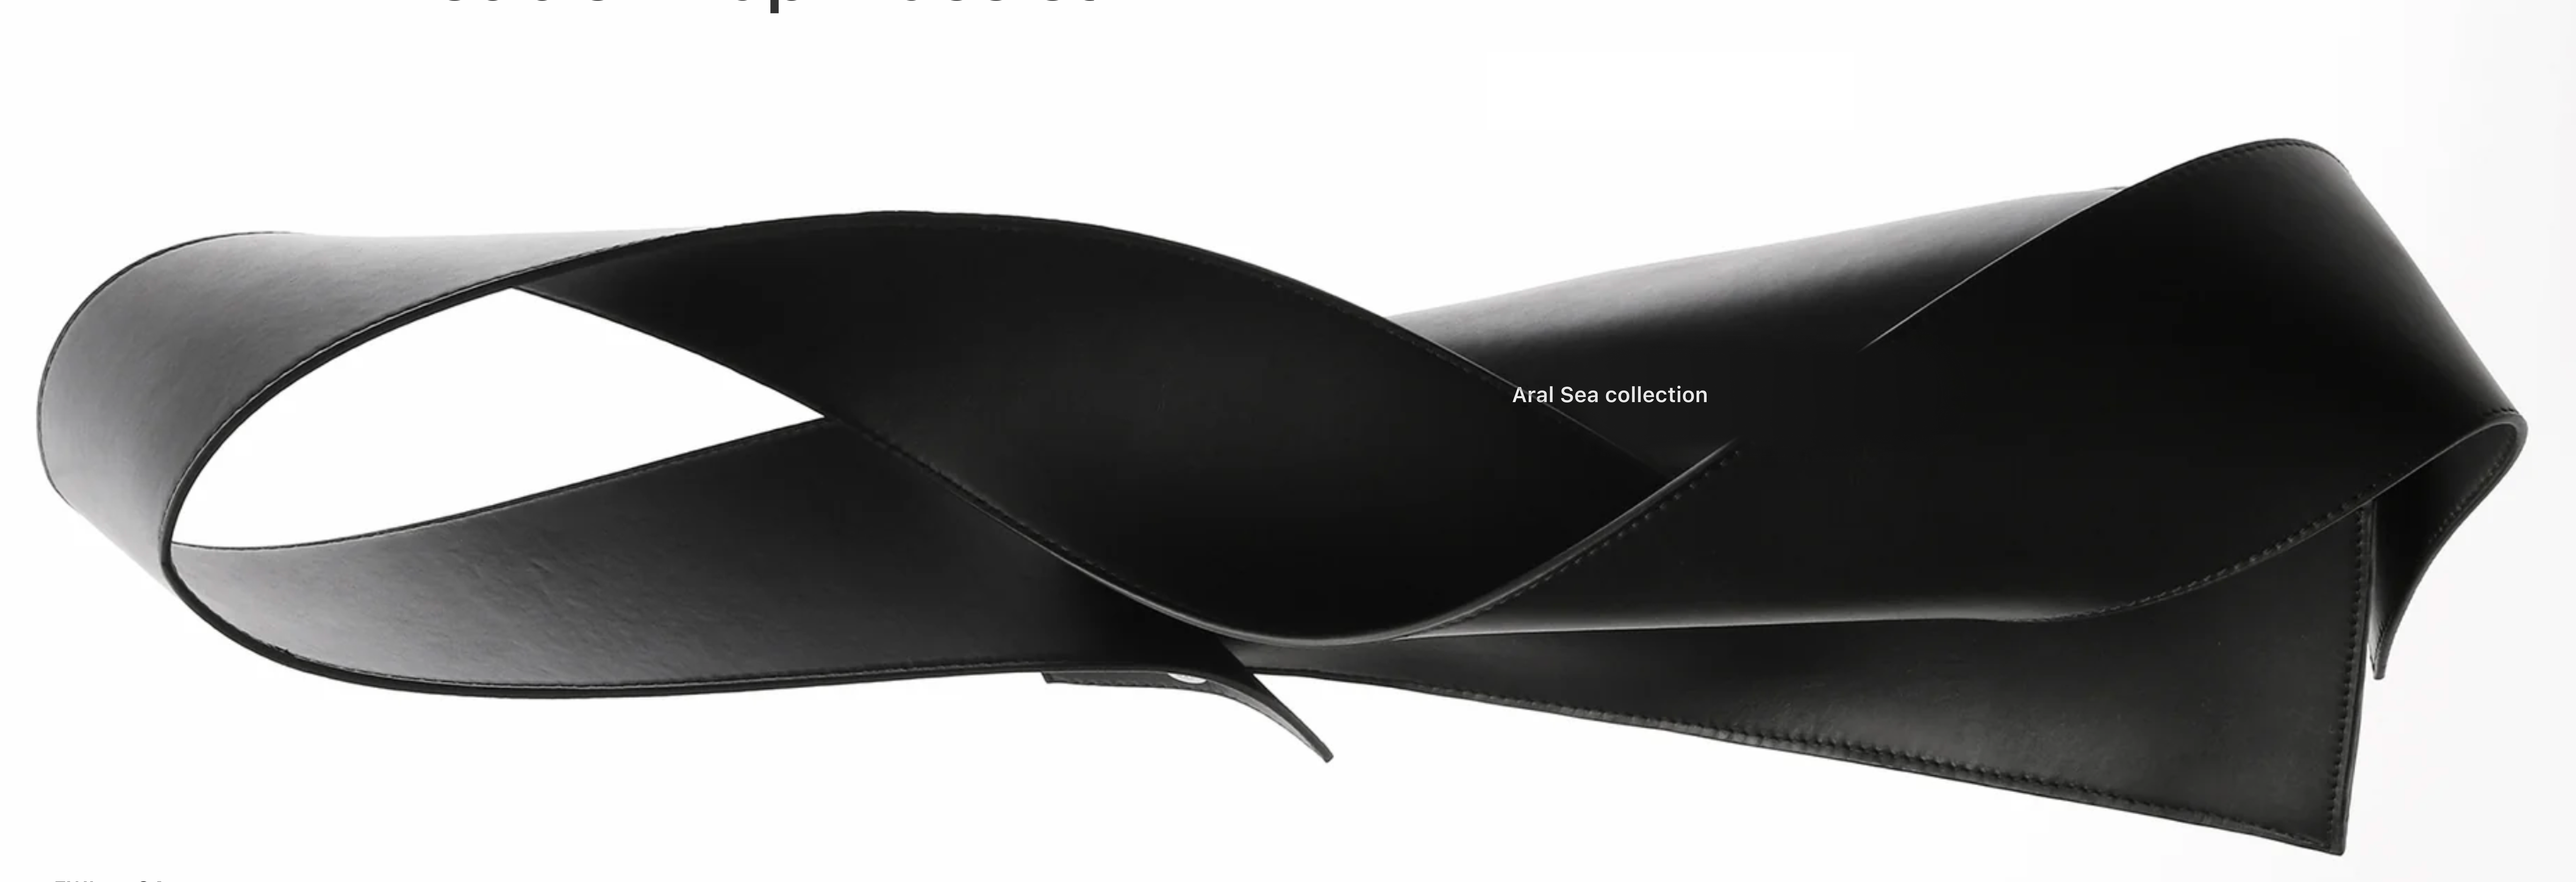
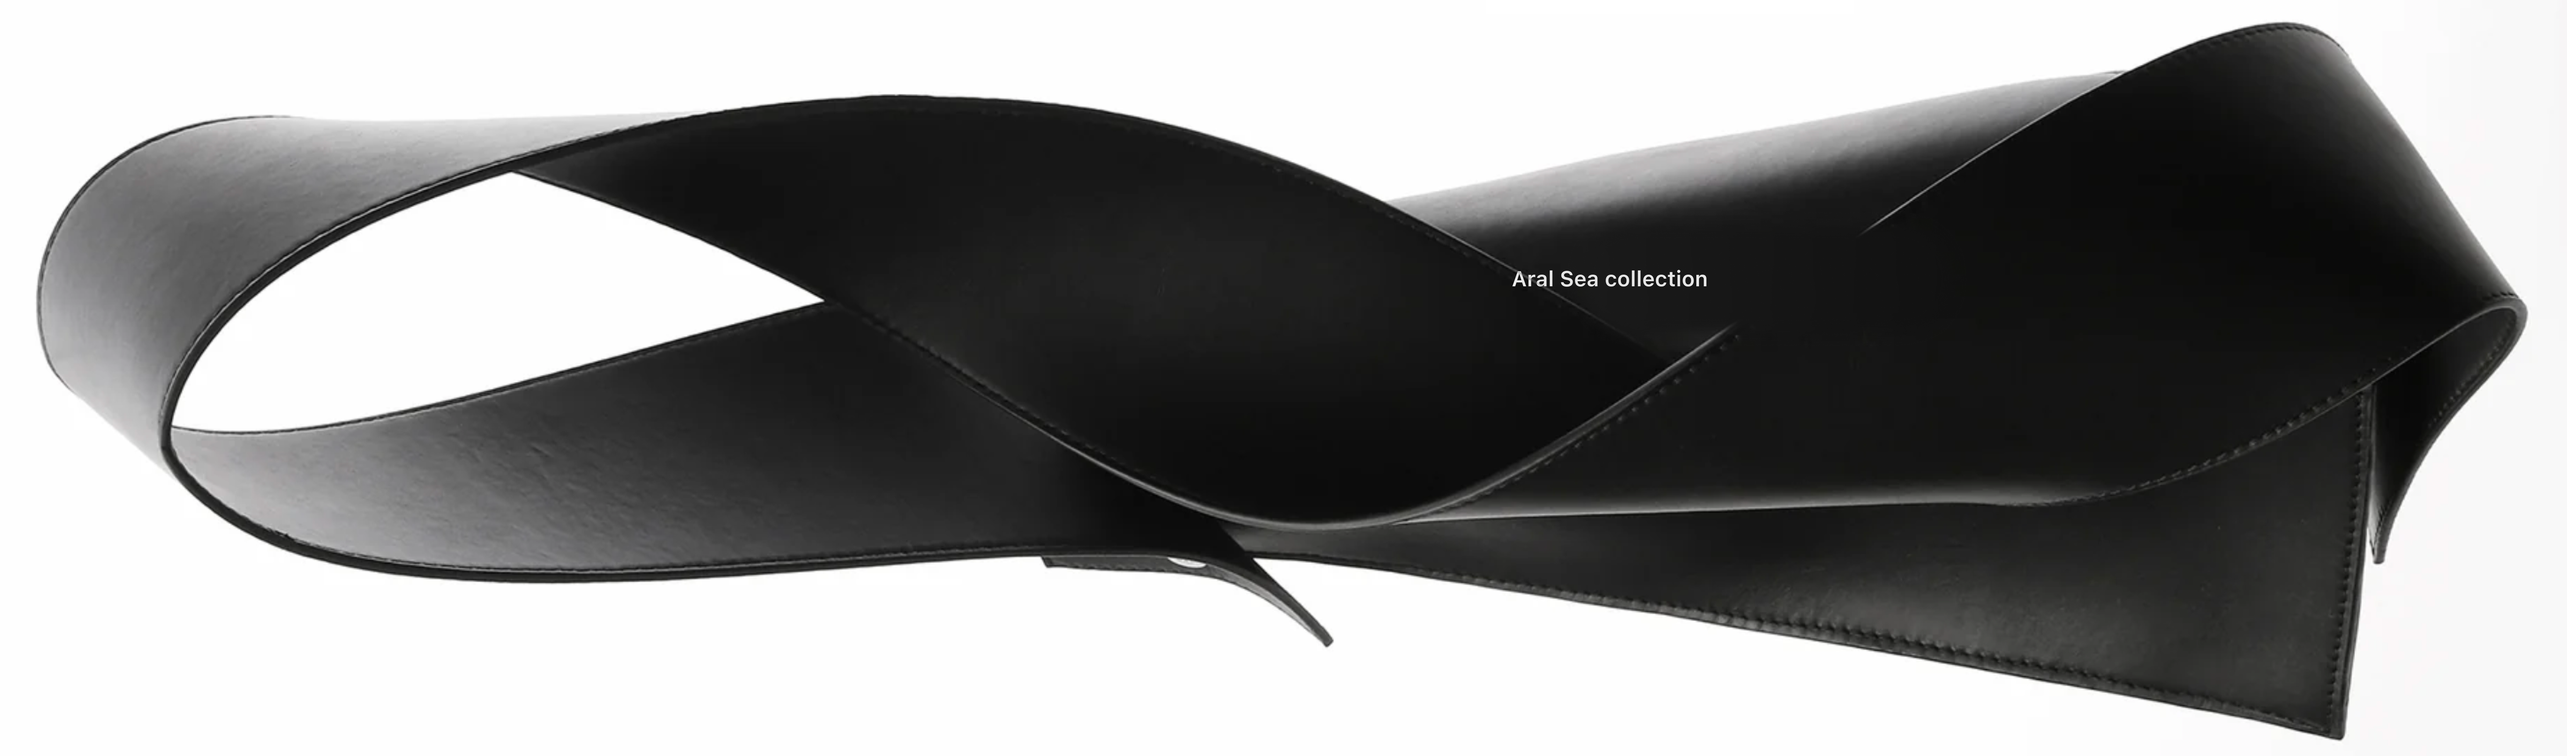
Added homepage first block

Changed region(s): [[0.0, 0.031, 0.9992, 0.9933], [0.5933, 0.4346, 0.687, 0.4656], [0.1874, 0.6519, 0.2186, 0.6829]]

diff --git a/app/page.js b/app/page.js
@@ -1,20 +1,31 @@
 import { productsPreviewMock } from "@/data";
 import ProductPreview from "@/app/components/product-preview/ProductPreview";
-import styles from "./page.module.scss";;
+import styles from "./page.module.scss";
 
 export default function Home() {
   return (
-    <div>
-      {/*<div>*/}
-      {/*  <div>*/}
-      {/*    <div>FW’24</div>*/}
-      {/*    <div>Double Wrap Bracelet</div>*/}
-      {/*    <div>*/}
-      {/*      <div>Janym Sol</div>*/}
-      {/*      <div>FW’24</div>*/}
-      {/*    </div>*/}
-      {/*  </div>*/}
-      {/*</div>*/}
+    <div className={styles.container}>
+      <div>
+        <div className={styles.fw}>
+          <div className={styles.fwTitle}>FW’24</div>
+          <div className={styles.fwSubtitle}>Double Wrap Bracelet</div>
+          <div className={styles.fwCaption}>
+            <div>Janym Sol</div>
+            <div>FW’24</div>
+          </div>
+        </div>
+        <img src="/aral-sea-collection.png" alt="" className={styles.fwImage} />
+        <div className={styles.fwBottom}>
+          <div className={styles.fwBottomCaption}>
+            <div>FW’</div>
+            <div>24</div>
+          </div>
+          <div className={styles.fwBottomText}>
+            &#34;A brand reinterpreting Kazakh traditions in a modern context. Each collection reflects the nature and
+            history of Kazakhstan, with the first one responding to the tragedy of the Aral Sea.&#34;
+          </div>
+        </div>
+      </div>
 
       <div className={styles.products}>
         {productsPreviewMock.map((product) => (

diff --git a/app/page.module.scss b/app/page.module.scss
@@ -1,5 +1,57 @@
+@mixin block {
+  @apply px-40px;
+  @apply w-100%;
+}
+
 .twoCols {
   @apply grid grid-cols-2;
+}
+
+.container {
+  @apply flex flex-col justify-center items-center gap-100px;
+  @apply py-60px;
+}
+
+
+.block {
+  @include block;
+}
+
+.fw {
+  @include block;
+  @apply flex items-center;
+
+  .fwTitle {
+    @apply font-medium text-58px leading-58px tracking-[0.02em];
+  }
+
+  .fwSubtitle {
+    @apply font-medium text-58px leading-58px tracking-[-0.01em];
+    @apply ml-73px;
+  }
+
+  .fwCaption {
+    @apply font-semibold ml-200px;
+  }
+}
+
+.fwImage {
+  @apply mt-100px;
+}
+
+.fwBottom {
+  @include block;
+  @apply pr-300px mt-14px;
+  @apply flex-col gap-12px;
+
+  .fwBottomCaption {
+    @apply flex gap-30px;
+    @apply font-semibold;
+  }
+
+  .fwBottomText {
+    @apply text-58px leading-60px;
+  }
 }
 
 .products {
